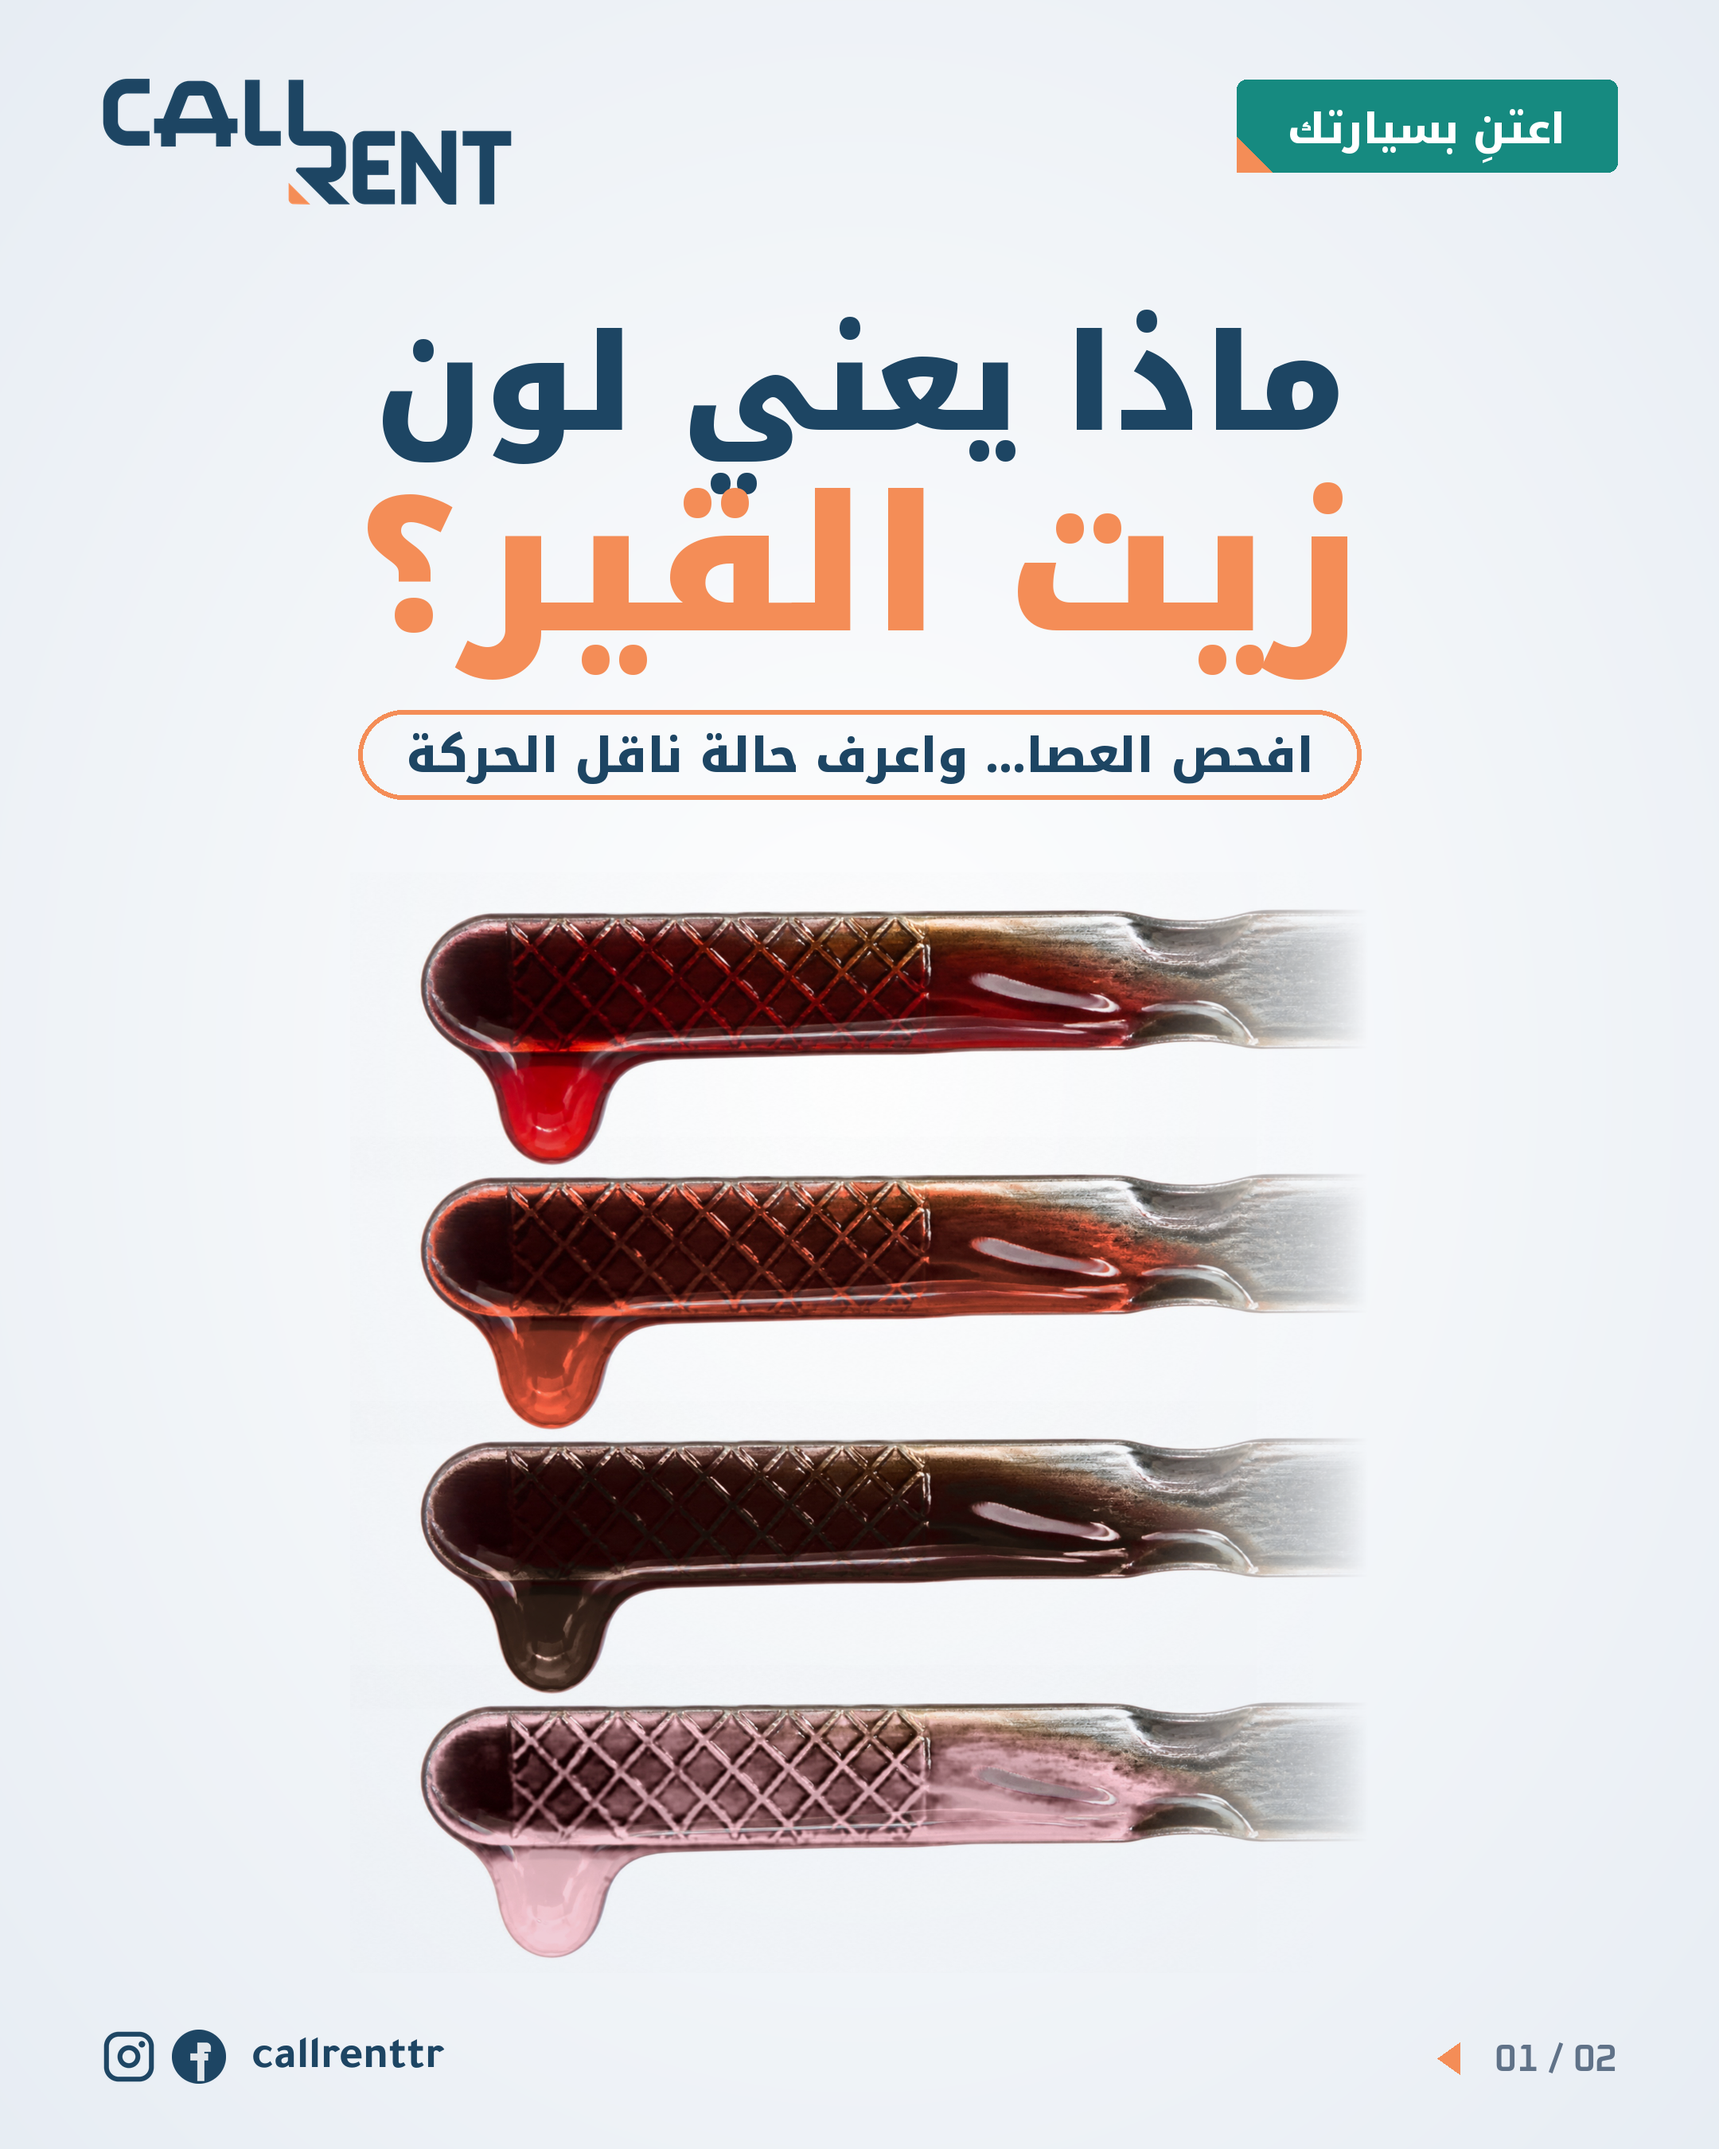
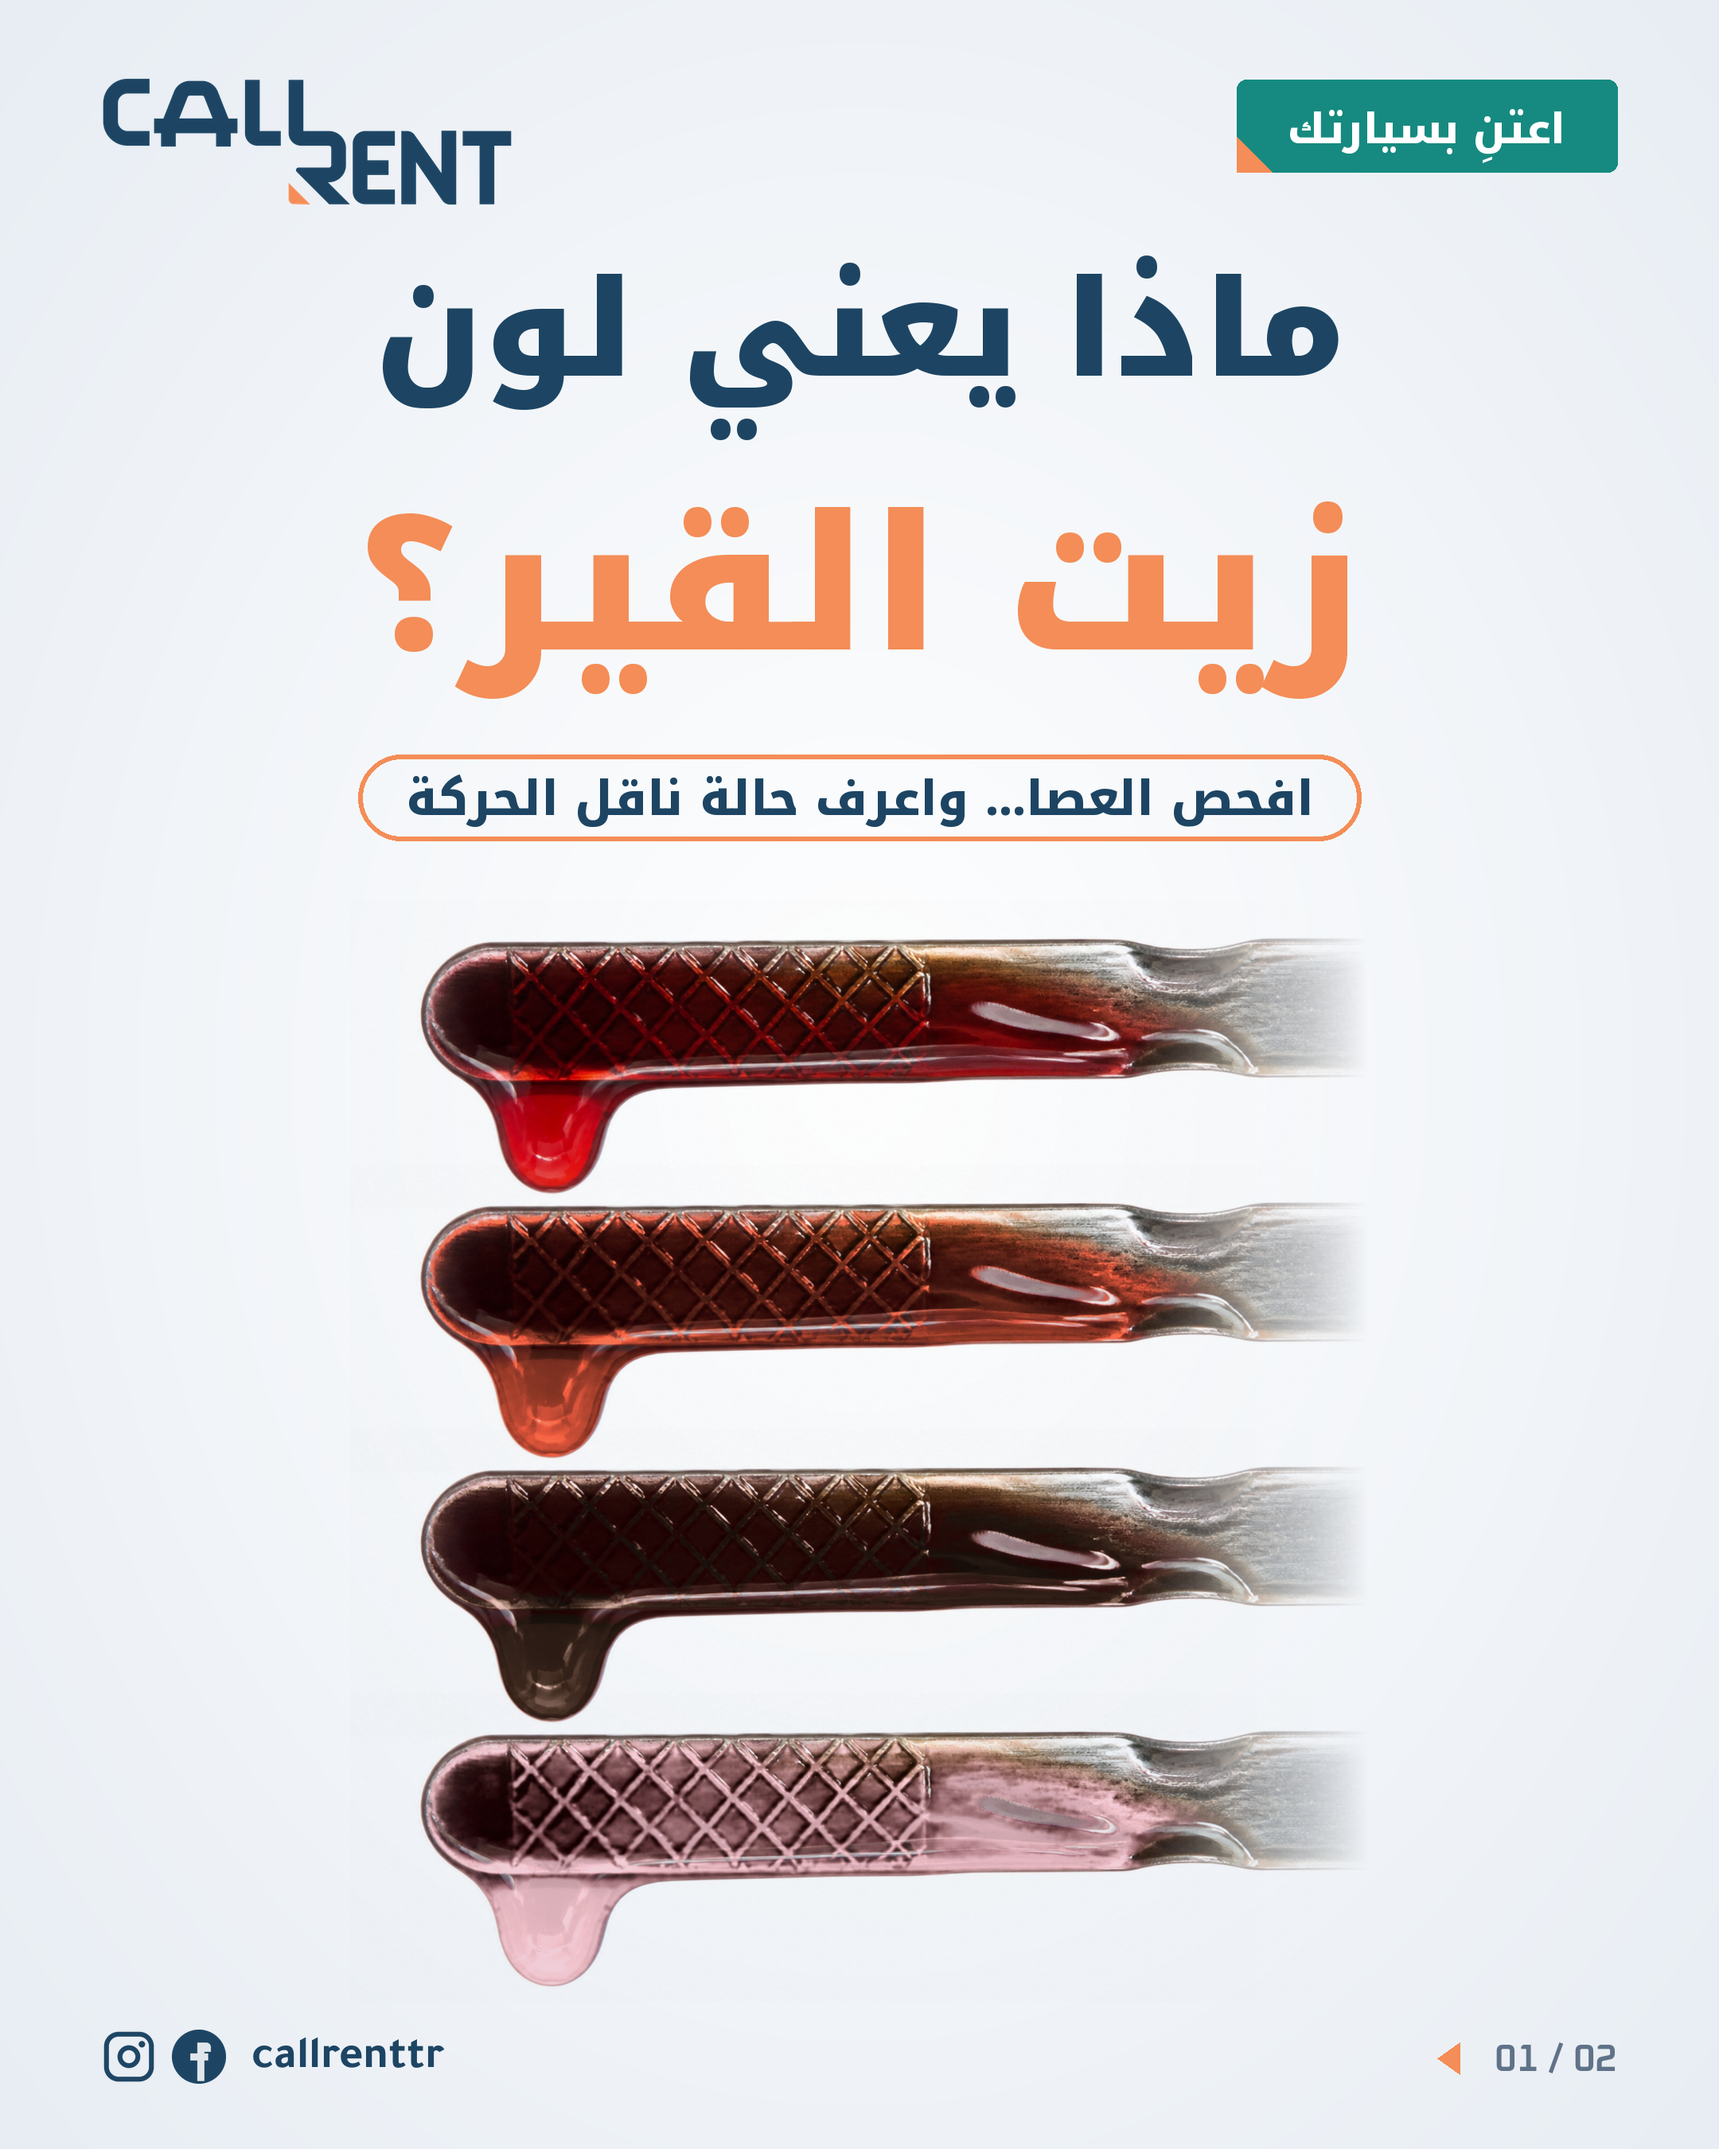
Gear-oil cover: more space between the title lines
Claude-Session: https://claude.ai/code/session_01JWxxZZBXcuDznNNTjM86b7

Changed region(s): [[0.1861, 0.1244, 0.8065, 0.9333]]

diff --git a/marketing/care/atf_sticks.py b/marketing/care/atf_sticks.py
@@ -75,13 +75,13 @@ def put(cv, im, xy):
 
 def cover(out):
     cv = page(); d = ImageDraw.Draw(cv)
-    ar(d, (W/2, S(270)), 'ماذا يعني لون', F(AR_BLACK, S(84)), N, 'ms')
-    ar(d, (W/2, S(396)), 'زيت القير؟', F(AR_BLACK, S(118)), O, 'ms')
+    ar(d, (W/2, S(236)), 'ماذا يعني لون', F(AR_BLACK, S(84)), N, 'ms')
+    ar(d, (W/2, S(408)), 'زيت القير؟', F(AR_BLACK, S(118)), O, 'ms')
     t = 'افحص العصا… واعرف حالة ناقل الحركة'; fs = F(AR_BOLD, S(30)); tw = w_ar(t, fs) + S(60)
-    d.rounded_rectangle((W/2 - tw/2, S(446), W/2 + tw/2, S(502)), radius=S(28), outline=O, width=S(3))
-    ar(d, (W/2, S(475)), t, fs, N, 'mm')
+    d.rounded_rectangle((W/2 - tw/2, S(474), W/2 + tw/2, S(528)), radius=S(28), outline=O, width=S(3))
+    ar(d, (W/2, S(502)), t, fs, N, 'mm')
     # the four sticks fanned like a colour chart, tips toward the left
-    y = S(548)
+    y = S(566)
     for name, *_ in ROWS:
         st = stick(name, S(640), 0.86); put(cv, st, ((W - st.width)//2, y)); y += S(166)
     chrome(cv, 1, 2)
